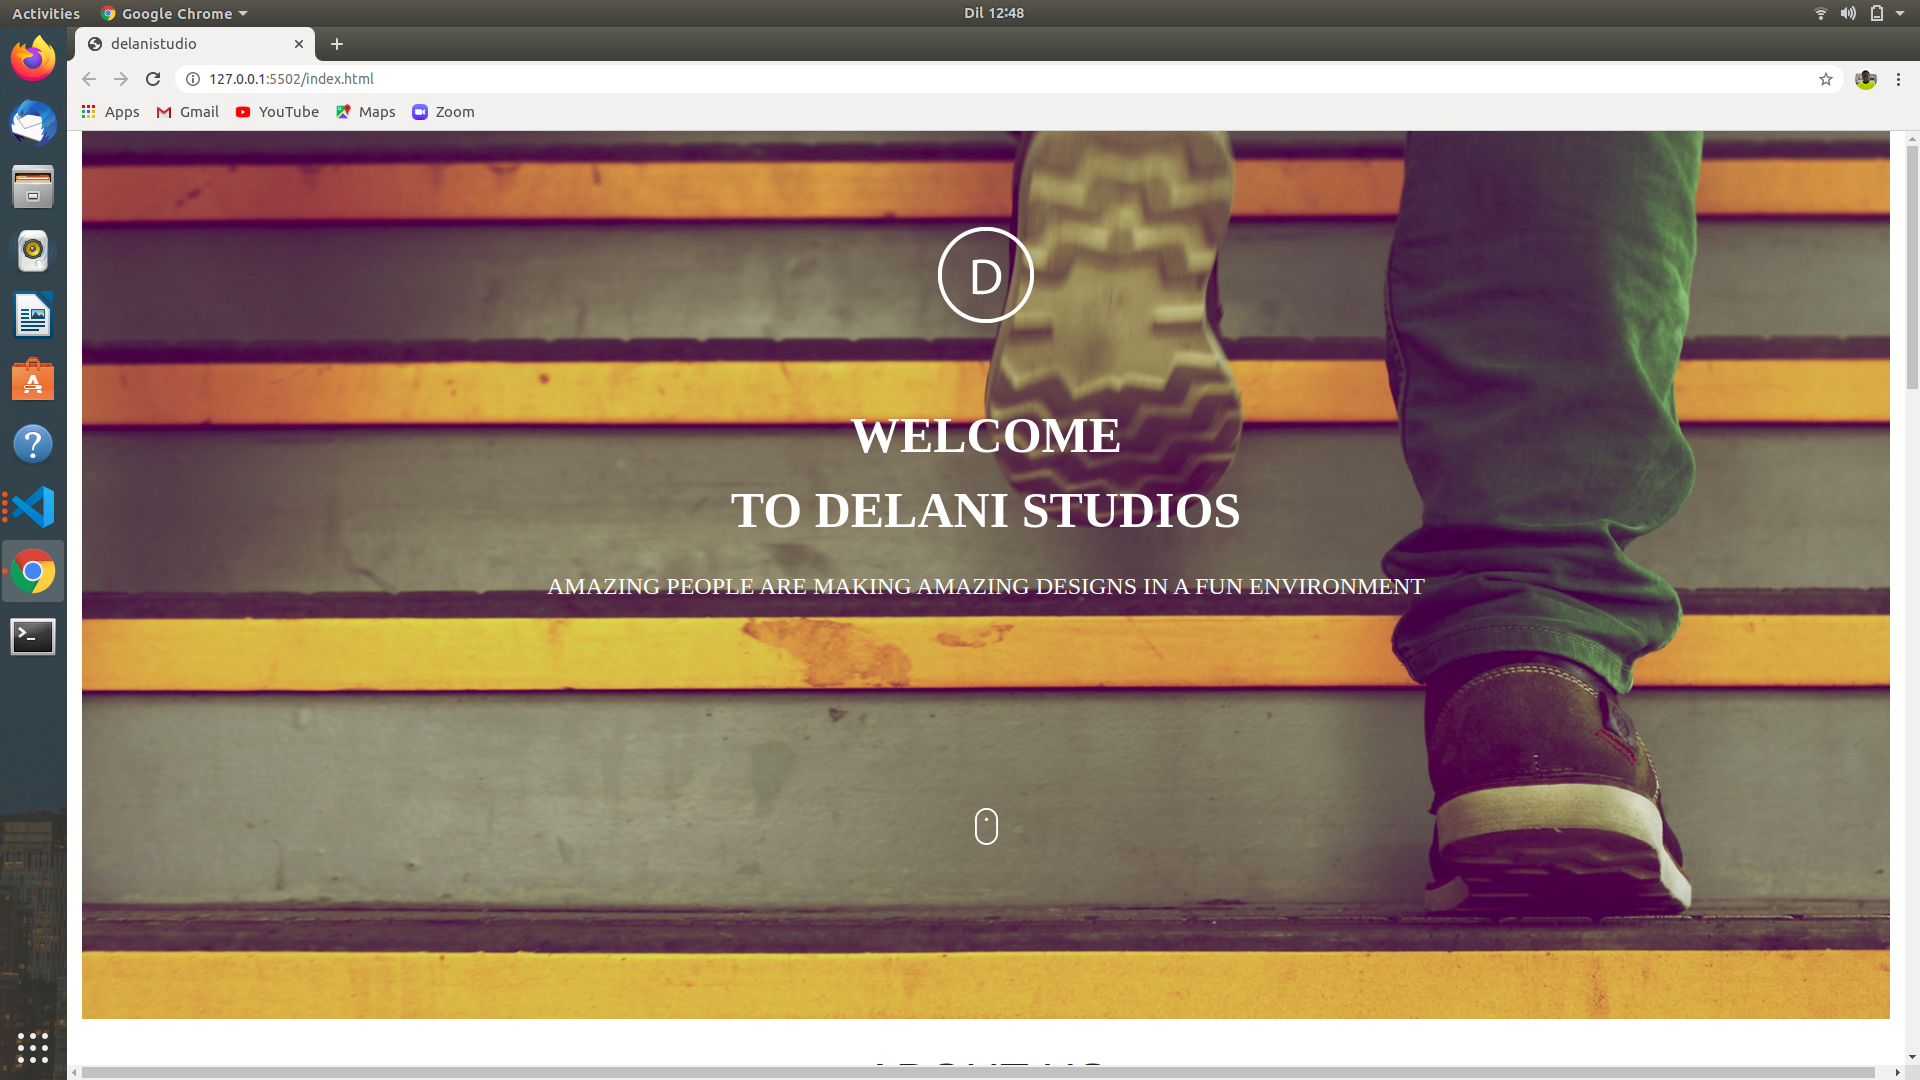
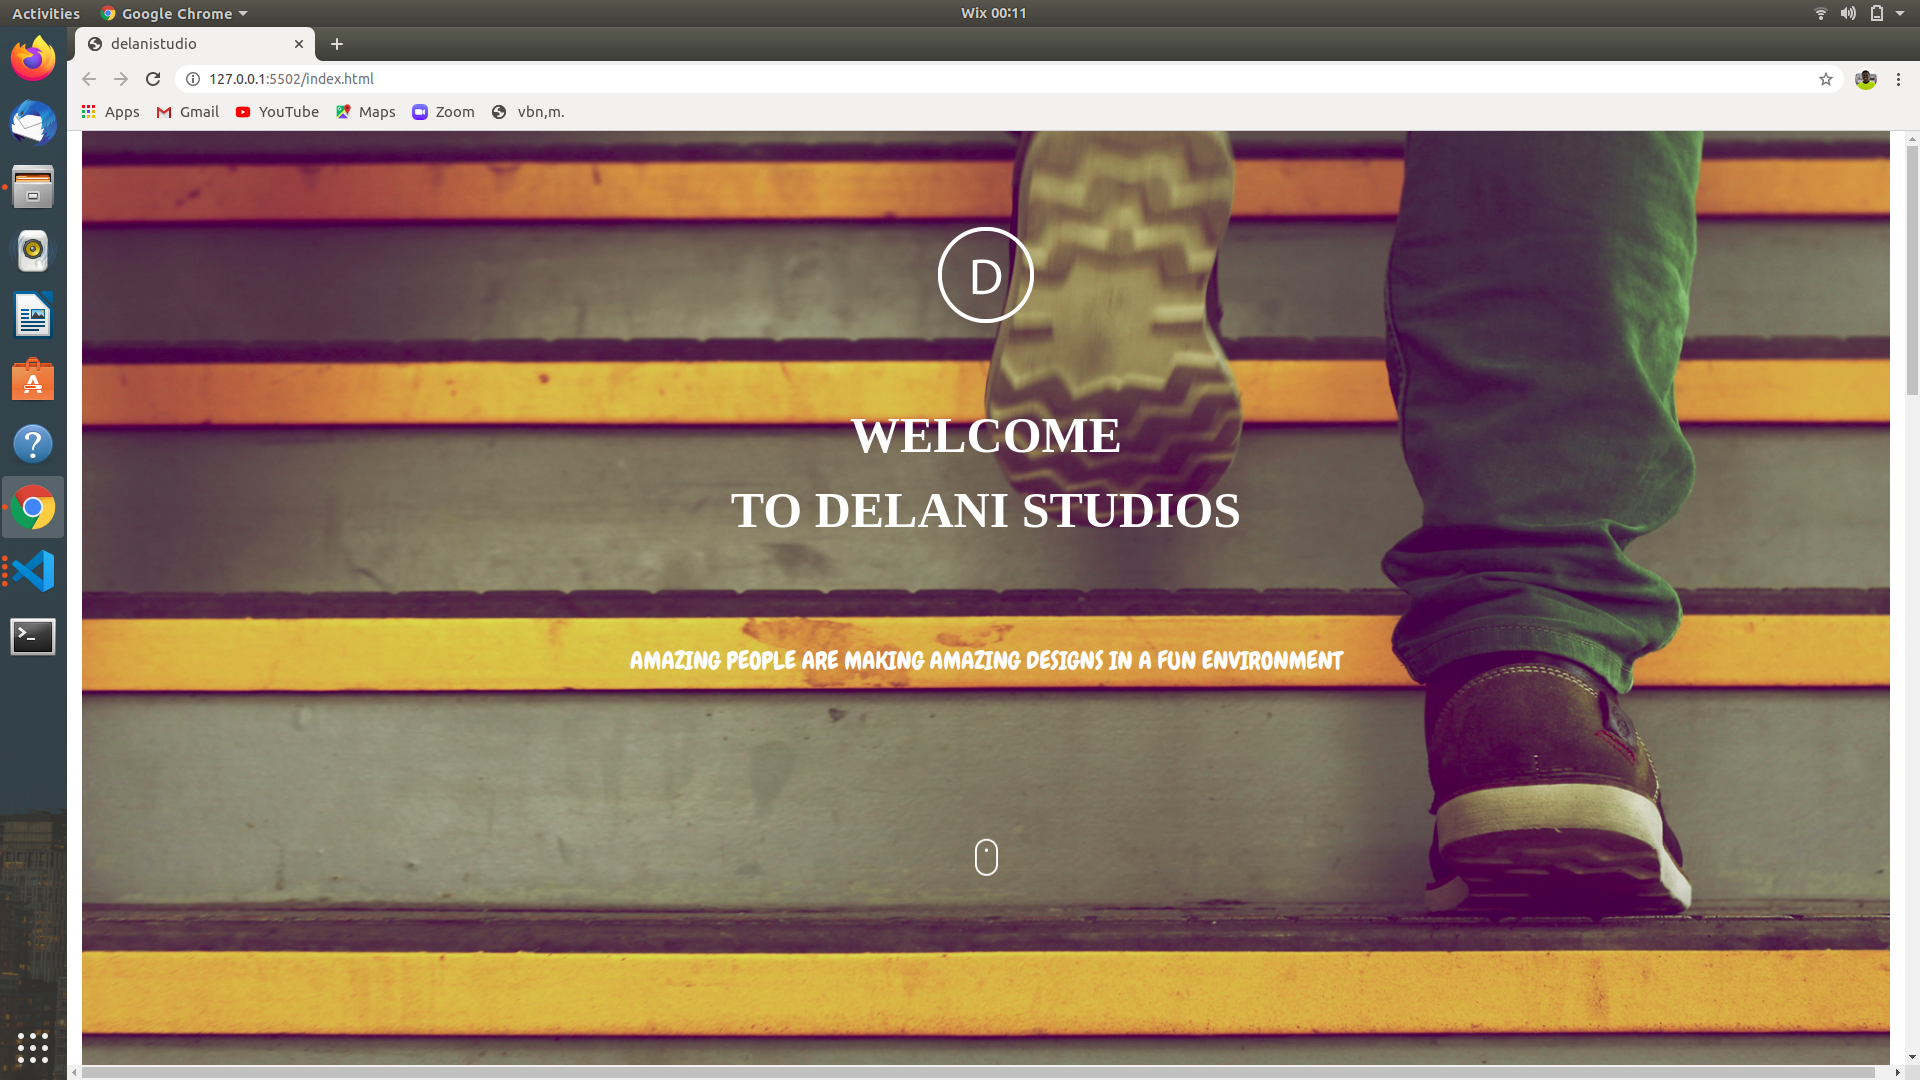
add a mailchimp link

diff --git a/index.html b/index.html
@@ -7,8 +7,12 @@
   <link rel="stylesheet" type="text/css" href="css/styles.css">
   <script src="https://code.jquery.com/jquery-3.5.1.js" integrity="sha256-QWo7LDvxbWT2tbbQ97B53yJnYU3WhH/C8ycbRAkjPDc=" crossorigin="anonymous"></script>
   <script src="js/scripts.js"></script>
-  <script id="mcjs">!function(c,h,i,m,p){m=c.createElement(h),p=c.getElementsByTagName(h)[0],m.async=1,m.src=i,p.parentNode.insertBefore(m,p)}(document,"script","https://chimpstatic.com/mcjs-connected/js/users/4c022dcbe03a156bc7950d2ad/78f30711ae3ddaf4798bb94f8.js");</script>
+  <!-- <script type='text/javascript' src='//s3.amazonaws.com/downloads.mailchimp.com/js/mc-validate.js'></script><script type='text/javascript'>(function($) {window.fnames = new Array(); window.ftypes = new Array();fnames[0]='EMAIL';ftypes[0]='email';fnames[1]='FNAME';ftypes[1]='text';fnames[2]='LNAME';ftypes[2]='text';fnames[3]='ADDRESS';ftypes[3]='address';fnames[4]='PHONE';ftypes[4]='phone';fnames[5]='BIRTHDAY';ftypes[5]='birthday';}(jQuery));var $mcj = jQuery.noConflict(true);</script> 
+  <script id="mcjs">!function(c,h,i,m,p){m=c.createElement(h),p=c.getElementsByTagName(h)[0],m.async=1,m.src=i,p.parentNode.insertBefore(m,p)}(document,"script","https://chimpstatic.com/mcjs-connected/js/users/4c022dcbe03a156bc7950d2ad/78f30711ae3ddaf4798bb94f8.js");</script> -->
+  <script id="mcjs">!function(c,h,i,m,p){m=c.createElement(h),p=c.getElementsByTagName(h)[0],m.async=1,m.src=i,p.parentNode.insertBefore(m,p)}(document,"script","https://chimpstatic.com/mcjs-connected/js/users/4c022dcbe03a156bc7950d2ad/a8d28f2b3c7a056ce655283ea.js");</script>
+  <link href="https://fonts.googleapis.com/css2?family=Chewy&display=swap" rel="stylesheet">
   <link href="https://fonts.googleapis.com/css2?family=Lobster+Two:ital@1&display=swap" rel="stylesheet">
+  <link href="https://fonts.googleapis.com/css2?family=Manjari:wght@700&display=swap" rel="stylesheet">
 </head>
 
 <body>
@@ -167,7 +171,7 @@
         <textarea name="message" id="messagebox" cols="80" rows="8" placeholder="Type your message here"></textarea>
       </div>
     </form>
-    <div class="submiting">
+    <div class="submit">
       <form>
         <button type="submit" id="btn" class="btn ">SUBMIT</button> 
          <br>
@@ -192,3 +196,5 @@
     <p> 2020</p>
 </body>
 </html>
+
+

diff --git a/css/styles.css b/css/styles.css
@@ -131,14 +131,17 @@ body {
 }
 h2{
   font-weight: lighter;
+  font-family: 'Lobster Two', cursive;
 }
 h6{
-  font-family: 'Lobster Two', cursive;
+  font-family: 'Chewy', cursive;
 }
 .form1{
   background: transparent;
 }
-
+.writing1{
+  font-family: 'Manjari', sans-serif;
+}
 
 
 
